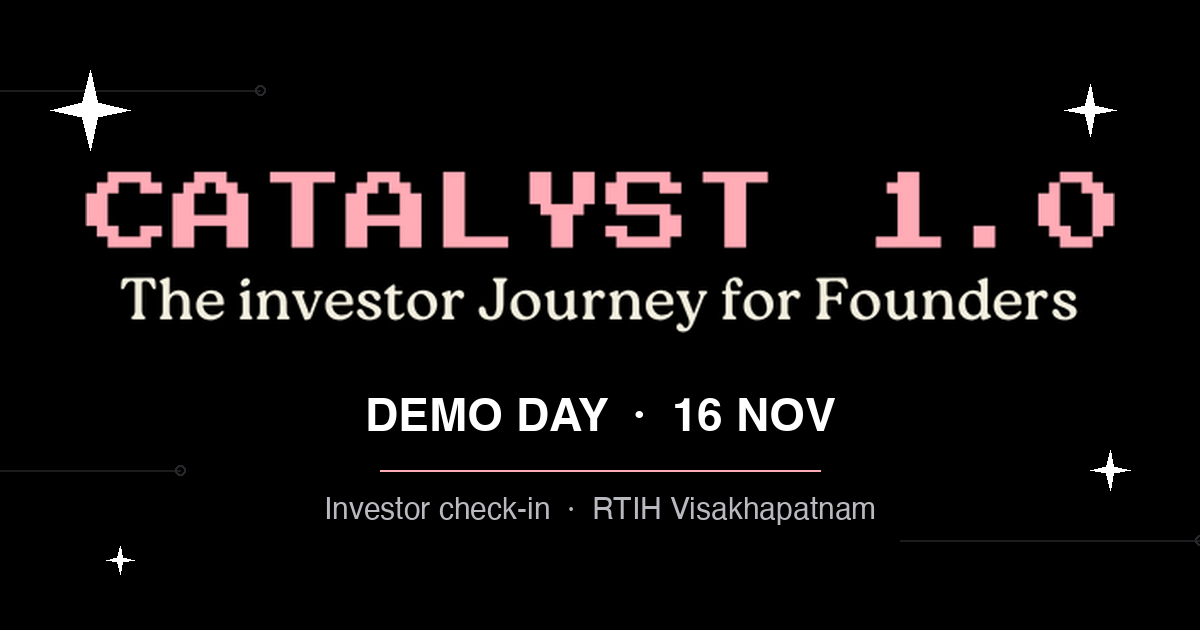
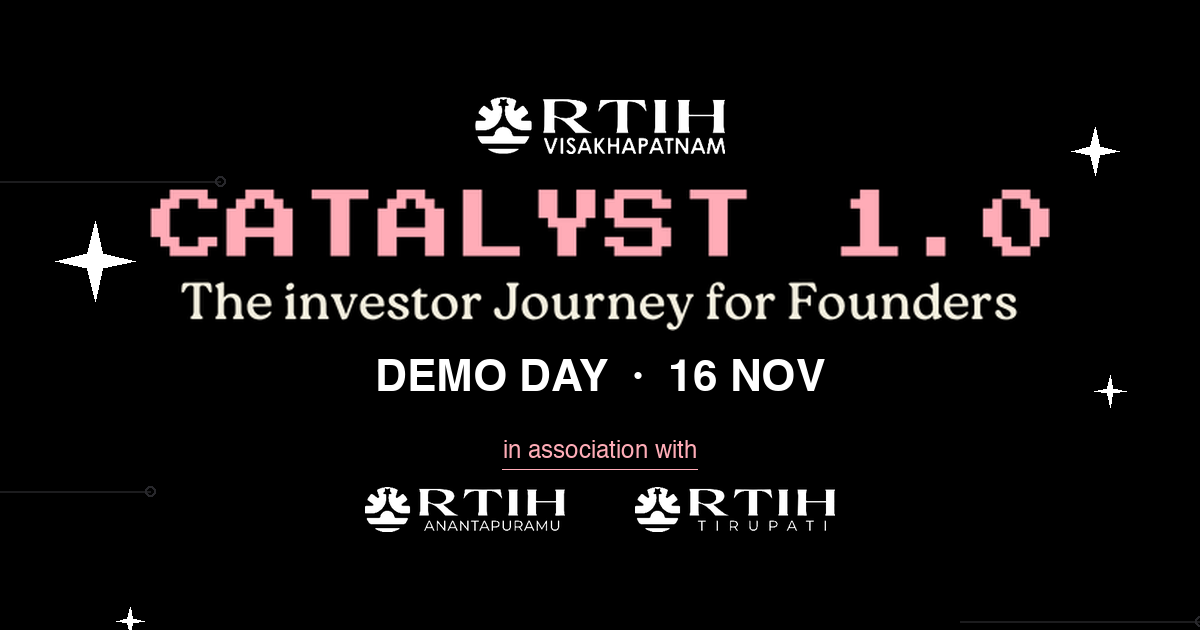
Feature RTIH Visakhapatnam as host, with partner hubs
- RTIH Visakhapatnam logo leads the hero and projector board
- "in association with" RTIH Anantapuramu and RTIH Tirupati on the
  landing page, projector board and every app page footer
- Link-preview image updated to match the new poster

diff --git a/src/components/Layout.tsx b/src/components/Layout.tsx
@@ -14,7 +14,7 @@ import {
 import type { ReactNode } from 'react'
 import { NavLink, Link } from 'react-router-dom'
 import { isDemo } from '../lib/store'
-import { IdeasToImpact } from './Decor'
+import { SiteFooter } from './Decor'
 import { cn } from '../lib/utils'
 
 export function Brand({ to = '/', sub }: { to?: string; sub?: string }) {
@@ -22,7 +22,7 @@ export function Brand({ to = '/', sub }: { to?: string; sub?: string }) {
     <Link to={to} className="flex min-w-0 items-center gap-2.5">
       <div className="min-w-0 leading-tight">
         <img src="./brand/catalyst-wordmark.png" alt="Catalyst 1.0" width={606} height={46} className="h-[15px] w-auto sm:h-[17px]" />
-        <p className="mt-1 truncate font-display text-[11px] uppercase tracking-[0.18em] text-slate-500">{sub ?? 'Demo Day · RTIH Vizag'}</p>
+        <p className="mt-1 truncate font-display text-[11px] uppercase tracking-[0.18em] text-slate-500">{sub ?? 'Demo Day · RTIH Visakhapatnam'}</p>
       </div>
     </Link>
   )
@@ -125,8 +125,8 @@ export function InvestorShell({ children, unread, name }: { children: ReactNode;
           {name && <span className="hidden max-w-[10rem] truncate text-sm text-slate-500 lg:block">{name}</span>}
         </div>
       </header>
-      <main className="mx-auto max-w-5xl px-4 pb-6 pt-4 md:pt-6">{children}</main>
-      <IdeasToImpact className="pb-28 pt-6 md:pb-10" />
+      <main className="mx-auto max-w-5xl px-4 pb-10 pt-4 md:pt-6">{children}</main>
+      <SiteFooter className="pb-28 md:pb-10" />
       <BottomNav items={items} />
     </div>
   )
@@ -180,8 +180,8 @@ export function OrganiserShell({
           </div>
         </div>
       </header>
-      <main className="mx-auto max-w-7xl px-4 pb-6 pt-4 md:pt-6">{children}</main>
-      <IdeasToImpact className="pb-28 pt-6 md:pb-10" />
+      <main className="mx-auto max-w-7xl px-4 pb-10 pt-4 md:pt-6">{children}</main>
+      <SiteFooter className="pb-28 md:pb-10" />
       <BottomNav items={mobileItems} />
     </div>
   )

diff --git a/src/components/Decor.tsx b/src/components/Decor.tsx
@@ -49,3 +49,51 @@ export function IdeasToImpact({ className }: { className?: string }) {
     </p>
   )
 }
+
+/** Host hub (main). */
+export function RtihMain({ className }: { className?: string }) {
+  return (
+    <img
+      src="./brand/rtih-visakhapatnam.png"
+      alt="RTIH Visakhapatnam"
+      width={340}
+      height={77}
+      className={cn('h-auto', className)}
+    />
+  )
+}
+
+/** "in association with" partner hubs, styled like the poster. */
+export function Association({ className, size = 'lg' }: { className?: string; size?: 'lg' | 'sm' }) {
+  const logo = size === 'lg' ? 'w-[132px] sm:w-[170px]' : 'w-[92px] sm:w-[108px]'
+  return (
+    <div className={cn('flex flex-col items-center', className)}>
+      <p
+        className={cn(
+          'font-display text-brand-800 underline decoration-brand-800/70 underline-offset-4',
+          size === 'lg' ? 'text-base sm:text-lg' : 'text-xs',
+        )}
+      >
+        in association with
+      </p>
+      <div className={cn('flex items-center justify-center', size === 'lg' ? 'mt-4 gap-6 sm:gap-12' : 'mt-2.5 gap-5')}>
+        <img src="./brand/rtih-anantapuramu.png" alt="RTIH Anantapuramu" width={311} height={70} className={cn('h-auto', logo)} />
+        <img src="./brand/rtih-tirupati.png" alt="RTIH Tirupati" width={311} height={70} className={cn('h-auto', logo)} />
+      </div>
+    </div>
+  )
+}
+
+/** Footer used on every app page: host hub, partner hubs, tagline. */
+export function SiteFooter({ className }: { className?: string }) {
+  return (
+    <footer className={cn('mx-auto flex max-w-5xl flex-col items-center gap-5 border-t border-slate-200 px-4 pt-8', className)}>
+      <div className="flex flex-col items-center gap-1.5">
+        <span className="font-display text-[11px] uppercase tracking-[0.25em] text-slate-500">Hosted by</span>
+        <RtihMain className="w-[124px] sm:w-[140px]" />
+      </div>
+      <Association size="sm" />
+      <IdeasToImpact className="pt-1" />
+    </footer>
+  )
+}

diff --git a/src/pages/Join.tsx b/src/pages/Join.tsx
@@ -1,7 +1,7 @@
 import { ArrowRight, Lock, MousePointerClick, Radio, ShieldCheck } from 'lucide-react'
 import { useEffect, useState, type FormEvent } from 'react'
 import { Link, Navigate, useLocation, useNavigate, useParams } from 'react-router-dom'
-import { IdeasToImpact, Lighthouse, Ribbon, Sparkle } from '../components/Decor'
+import { Association, IdeasToImpact, Lighthouse, Ribbon, RtihMain, Sparkle } from '../components/Decor'
 import { DemoBanner } from '../components/Layout'
 import { Button, Field, Input, Notice, Spinner } from '../components/ui'
 import { useInvestor } from '../context/Investor'
@@ -112,10 +112,7 @@ export function PosterHero({ settings, children }: { settings: EventSettings; ch
       <Lighthouse className="pointer-events-none absolute -bottom-1 right-0 w-48 opacity-25 sm:w-96" />
 
       <div className="relative mx-auto max-w-3xl px-4 pb-28 pt-8 text-center sm:pb-32 sm:pt-12">
-        <p className="font-serif text-2xl font-medium tracking-wide text-paper sm:text-3xl">RTIH</p>
-        <p className="-mt-0.5 font-display text-[10px] font-semibold uppercase tracking-[0.3em] text-paper sm:text-xs">
-          Visakhapatnam
-        </p>
+        <RtihMain className="mx-auto w-[170px] sm:w-[220px]" />
 
         <h1 className="mt-6">
           <img
@@ -218,6 +215,7 @@ export function JoinPage() {
           </p>
         </aside>
       </div>
+      <Association className="px-4 pb-8 pt-6" />
       <IdeasToImpact className="pb-10" />
     </div>
   )

diff --git a/src/App.tsx b/src/App.tsx
@@ -1,7 +1,7 @@
 import { ArrowLeft } from 'lucide-react'
 import type { ReactNode } from 'react'
 import { HashRouter, Link, Navigate, Route, Routes, useLocation } from 'react-router-dom'
-import { Sparkle } from './components/Decor'
+import { Association, IdeasToImpact, RtihMain, Sparkle } from './components/Decor'
 import { InvestorShell } from './components/Layout'
 import { Spinner } from './components/ui'
 import { InvestorProvider, useInvestor } from './context/Investor'
@@ -65,9 +65,12 @@ function ProjectorBoard() {
           </Link>
           <Sparkle className="h-6 w-6" twinkle />
         </div>
+        <RtihMain className="mb-4 w-[160px]" />
         <img src="./brand/catalyst-logo.png" alt={`${settings.eventName}: ${settings.tagline}`} width={606} height={96} className="w-[min(100%,480px)]" />
         <h1 className="mb-6 mt-1 font-pixel text-3xl font-bold uppercase text-paper sm:text-5xl">Live interest</h1>
         <LiveBoard startups={startups.filter((s) => !s.hidden)} live={live} />
+        <Association className="mt-10" />
+        <IdeasToImpact className="mt-6" />
       </div>
     </div>
   )

diff --git a/index.html b/index.html
@@ -17,7 +17,7 @@
     <!-- Link previews (WhatsApp, LinkedIn, iMessage). og:image must be an absolute URL. -->
     <meta property="og:type" content="website" />
     <meta property="og:title" content="Catalyst 1.0 · Demo Day · 16 Nov" />
-    <meta property="og:description" content="Investor check-in for RTIH Visakhapatnam's Catalyst 1.0 Demo Day: request pitch decks and meetings with 21 startups." />
+    <meta property="og:description" content="Investor check-in for Catalyst 1.0 Demo Day by RTIH Visakhapatnam, in association with RTIH Anantapuramu and RTIH Tirupati. Request pitch decks and meetings with 21 startups." />
     <meta property="og:image" content="https://eduboardio.github.io/catalyst-demo-day/brand/og.png" />
     <meta property="og:image:width" content="1200" />
     <meta property="og:image:height" content="630" />

diff --git a/README.md b/README.md
@@ -1,6 +1,7 @@
 # Catalyst 1.0 · Demo Day: investor interest app
 
-Mobile-first web app for **RTIH Visakhapatnam's Catalyst Demo Day (16 Nov)**: 21 startups pitching to 20+ VC funds.
+Mobile-first web app for **Catalyst 1.0 Demo Day (16 Nov)**, hosted by **RTIH Visakhapatnam** in association with
+**RTIH Anantapuramu** and **RTIH Tirupati**: 21 startups pitching to 20+ VC funds.
 It works on phones, tablets and laptops, and is hosted free on GitHub Pages.
 
 - **Investors** open one event link, enter name / fund / contact once, then tap **Request pitch deck**, **Request a
@@ -108,5 +109,6 @@ Stack: React 18, TypeScript, Vite, Tailwind CSS, Supabase (Postgres, anonymous +
 Routing uses hash URLs (`/#/startups`), so GitHub Pages needs no server configuration.
 
 Theme: black background, poster pink, Silkscreen pixel type, sparkles, circuit texture and the Vizag lighthouse,
-matching the Catalyst 1.0 poster. The colour scales in `tailwind.config.js` are inverted for the dark theme (see the
+matching the Catalyst 1.0 poster. Logos live in `public/brand/` (the RTIH logos were lifted from the poster at about
+340 px wide; drop in higher-resolution transparent PNGs with the same file names to sharpen them). The colour scales in `tailwind.config.js` are inverted for the dark theme (see the
 note at the top of that file).
